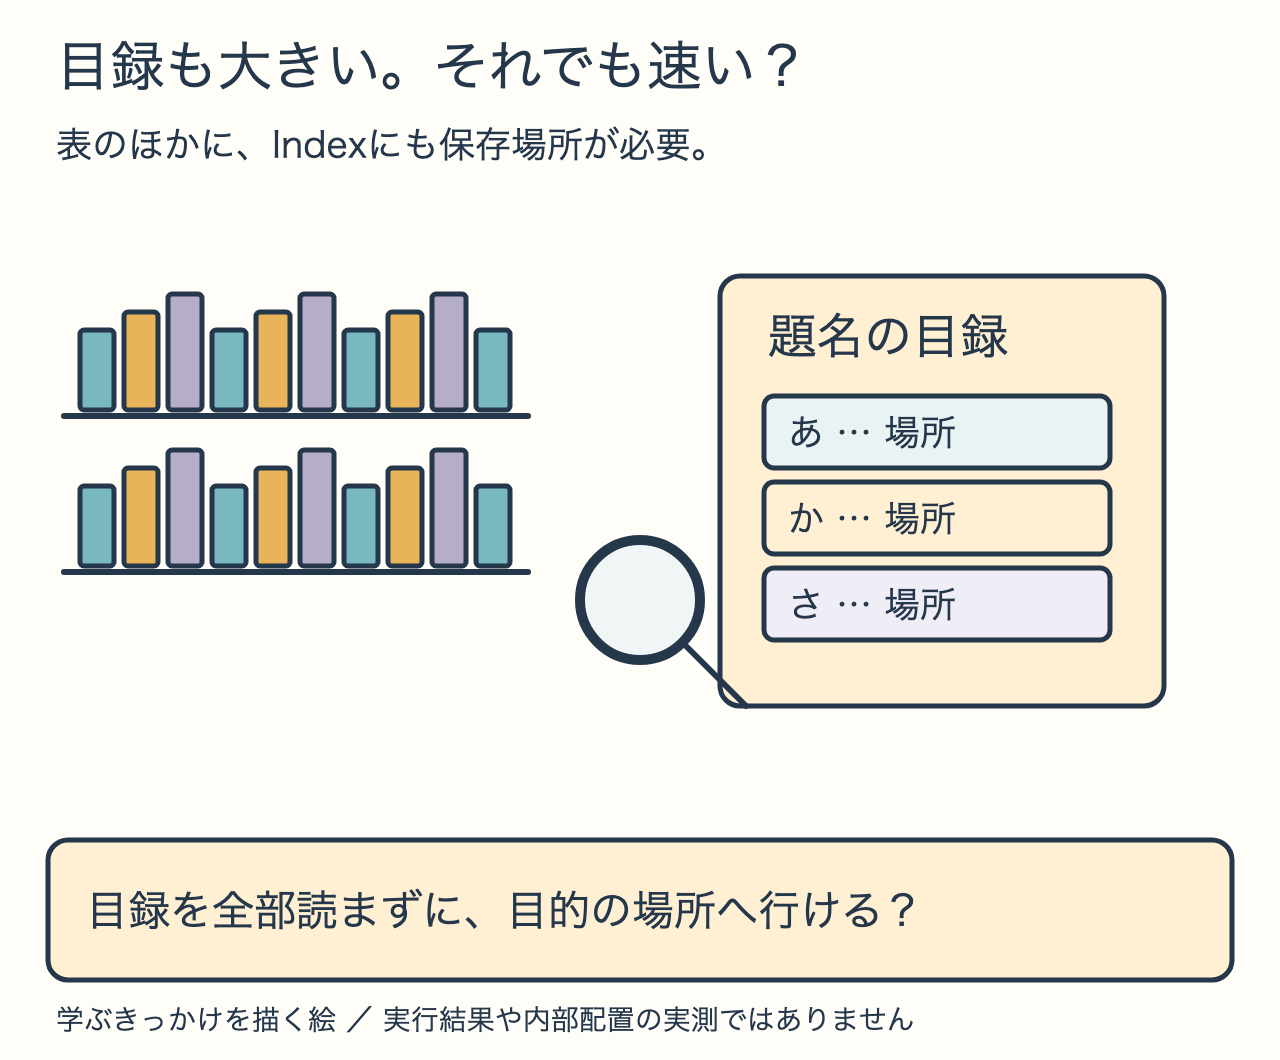
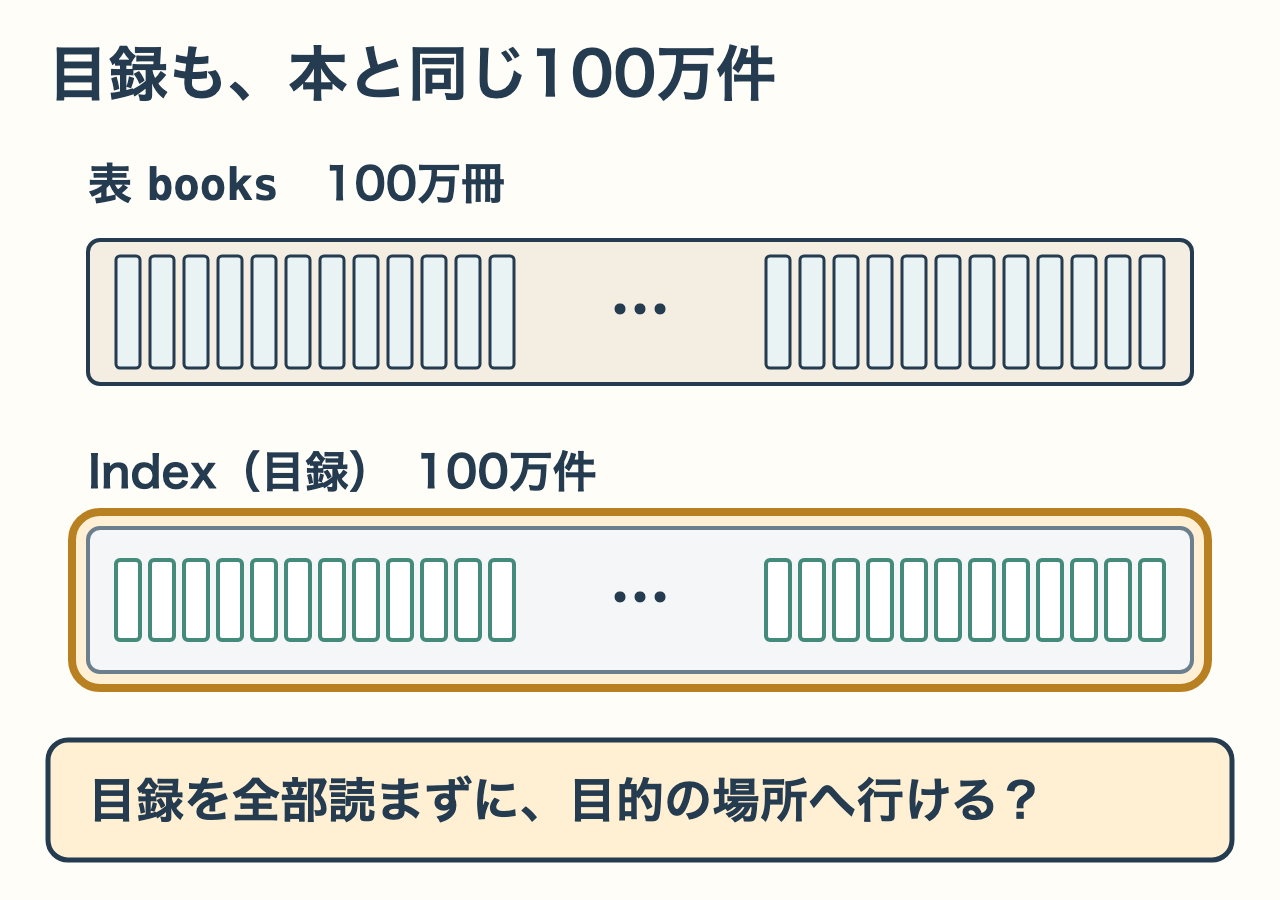
docs(query-journey): 第3章の入口の絵で、目録も100万件あることを棚と同じ長さで見せる
目録を3項目だけ描いていて、目録も100万件あることが見えなかった。本の棚と
同じ長さ・厚さの目録の帯を並べ、副題と断り書きを外した。

diff --git a/books/postgresql-query-journey/03-btree-index.md b/books/postgresql-query-journey/03-btree-index.md
@@ -12,8 +12,8 @@ Indexにも100万冊分の情報があるのに、なぜ全件を調べずに探
 
 でも、Indexにも100万冊分の情報があるはずです。Indexを先頭から全部読んでいたら、あまり助けにならなそうです。
 
-![目録も大きい。それでも速い？](/images/postgresql-query-journey/06-catalog-question.png)
-*学ぶきっかけを描く、説明用の場面。目録そのものも100万冊分あります。*
+![本100万冊の棚と同じ長さで、Indexの目録にも100万件が並ぶ](/images/postgresql-query-journey/06-catalog-question.png)
+*本の棚と同じ長さで並ぶ、目録の100万件を見てください（説明するための図）。*
 
 ## 番号の範囲から、探す先を選ぶ
 
